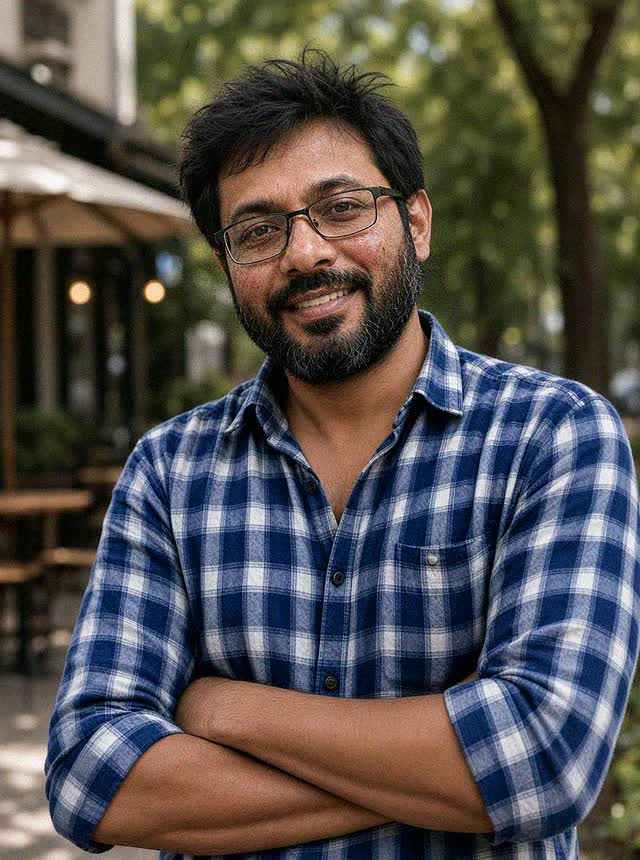
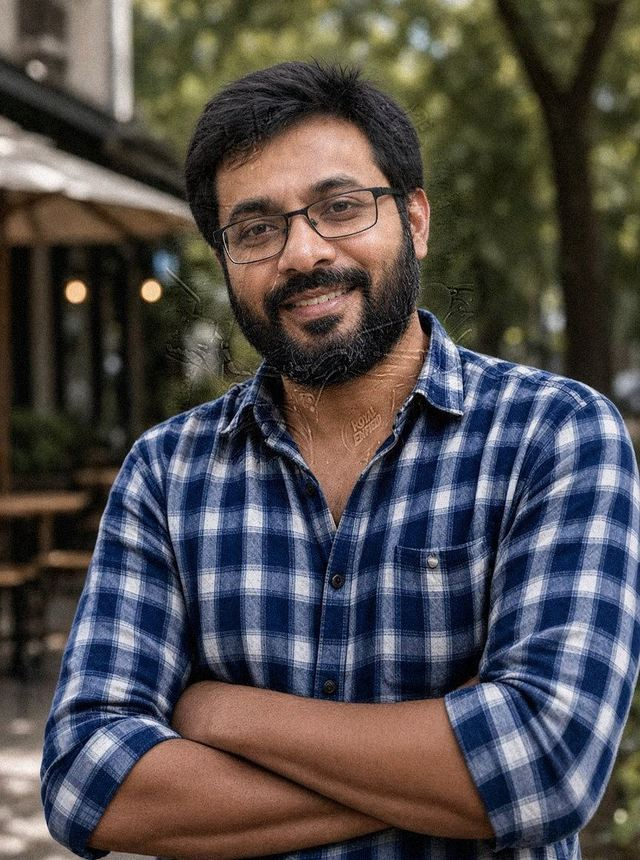
Redo Kabir Joshi DP from user phone skin/beard ref (desk123)
Keep invented outdoor instructor (glasses, blue check, blurred park/cafe).
Match medium-tan pores, sheen, dense soft-edge beard, and candid grain from
the attached phone photo without cloning identity. Cache-bust desk123 / ?v=7;
sync Flutter mentor asset. No APK.

diff --git a/js/app.js b/js/app.js
@@ -812,7 +812,7 @@ const MENTORS = [
   { name: "Neha Kapoor", role: "Options specialist", tag: "Income strategies", img: "/img/instructors/neha-kapoor.jpg?v=7" },
   { name: "Vikram Singh", role: "Price action coach", tag: "Swing trading", img: "https://images.unsplash.com/photo-1506794778202-cad84cf45f1d?auto=format&fit=crop&w=640&h=860&q=80" },
   { name: "Ananya Rao", role: "Long-term investor", tag: "Portfolio", img: "https://images.unsplash.com/photo-1573496359142-b8d87734a5a2?auto=format&fit=crop&w=640&h=860&q=80" },
-  { name: "Kabir Joshi", role: "Index options", tag: "Bank Nifty", img: "/img/instructors/kabir-joshi.jpg?v=6" },
+  { name: "Kabir Joshi", role: "Index options", tag: "Bank Nifty", img: "/img/instructors/kabir-joshi.jpg?v=7" },
   { name: "Rohan Desai", role: "Fund researcher", tag: "Mutual funds", img: "https://images.unsplash.com/photo-1519085360753-af0119f7cbe7?auto=format&fit=crop&w=640&h=860&q=80" },
   { name: "Priya Nair", role: "Asset allocation", tag: "SIP lab", img: "https://images.unsplash.com/photo-1580489944761-15a19d654956?auto=format&fit=crop&w=640&h=860&q=80" },
   { name: "Meera Iyer", role: "Options coach", tag: "Defined risk", img: "https://images.unsplash.com/photo-1438761681033-6461ffad8d80?auto=format&fit=crop&w=640&h=860&q=80" }
@@ -4909,6 +4909,7 @@ function traderIcon(kind) {
 /* cache-bust desk120: edge purge after CF poison on #75 (app.js?v=desk119 held pre-merge desk118; Kabir JPEG ?v=4 OK) /img/instructors/kabir-joshi.jpg?v=4 */
 /* cache-bust desk121: Kabir Joshi DP outdoor park path phone-candid blur /img/instructors/kabir-joshi.jpg?v=5 */
 /* cache-bust desk122: Kabir Joshi DP outdoor + Isha phone-face pores/flyaways grain /img/instructors/kabir-joshi.jpg?v=6 */
+/* cache-bust desk123: Kabir Joshi DP user phone-ref skin/beard grain outdoor /img/instructors/kabir-joshi.jpg?v=7 */
 function traderCardHTML(m, i, opts = {}) {
   const title = String(m.role || m.tag || "Mentor").trim();
   const cloneAttrs = opts.clone ? ' tabindex="-1" aria-hidden="true"' : "";

diff --git a/account.html b/account.html
@@ -17,7 +17,7 @@
   <div id="site-header"></div>
   <main id="accountRoot" class="ld-page"></main>
   <div id="site-footer"></div>
-  <script src="/js/app.js?v=desk122" defer></script>
+  <script src="/js/app.js?v=desk123" defer></script>
   <script src="/js/lms.js?v=cert2" defer></script>
 </body>
 </html>

diff --git a/learning.html b/learning.html
@@ -17,7 +17,7 @@
   <div id="site-header"></div>
   <main id="myLearning" class="ld-page"></main>
   <div id="site-footer"></div>
-  <script src="/js/app.js?v=desk122" defer></script>
+  <script src="/js/app.js?v=desk123" defer></script>
   <script src="/js/lms.js?v=cert2" defer></script>
 </body>
 </html>

diff --git a/course.html b/course.html
@@ -22,7 +22,7 @@
     </div>
   </main>
   <div id="site-footer"></div>
-  <script src="/js/app.js?v=desk122" defer></script>
+  <script src="/js/app.js?v=desk123" defer></script>
   <script src="/js/lms.js?v=cert2" defer></script>
   <script src="/js/drm.js?v=desk29" defer></script>
 </body>

diff --git a/contact.html b/contact.html
@@ -48,7 +48,7 @@
   </main>
   <div id="site-footer"></div>
   <script src="/js/help-faqs.js?v=faq1" defer></script>
-  <script src="/js/app.js?v=desk122" defer></script>
+  <script src="/js/app.js?v=desk123" defer></script>
   <script src="/js/lms.js" defer></script>
 </body>
 </html>

diff --git a/certificate.html b/certificate.html
@@ -19,7 +19,7 @@
     <div id="certRoot"></div>
   </main>
   <div id="site-footer"></div>
-  <script src="/js/app.js?v=desk122" defer></script>
+  <script src="/js/app.js?v=desk123" defer></script>
   <script src="/js/lms.js?v=cert2" defer></script>
 </body>
 </html>

diff --git a/control.html b/control.html
@@ -253,7 +253,7 @@
         loading = true;
         busy(true);
         var files = [
-          "/js/app.js?v=desk122",
+          "/js/app.js?v=desk123",
           "/js/lms.js",
           "/js/admin-core.js?v=desk8",
           "/js/admin.js?v=drm5",

diff --git a/index.html b/index.html
@@ -415,7 +415,7 @@
     </section>
   </main>
   <div id="site-footer"></div>
-  <script src="/js/app.js?v=desk122" defer></script>
+  <script src="/js/app.js?v=desk123" defer></script>
   <script src="/js/lms.js?v=cert2" defer></script>
 </body>
 </html>

diff --git a/live-room.html b/live-room.html
@@ -22,7 +22,7 @@
 </head>
 <body class="live-room-page">
   <div id="liveRoom"></div>
-  <script src="/js/app.js?v=desk122" defer></script>
+  <script src="/js/app.js?v=desk123" defer></script>
   <script src="/js/lms.js" defer></script>
 </body>
 </html>

diff --git a/nifty-options.html b/nifty-options.html
@@ -44,7 +44,7 @@
     </section>
   </main>
   <div id="site-footer"></div>
-  <script src="/js/app.js?v=desk122" defer></script>
+  <script src="/js/app.js?v=desk123" defer></script>
   <script src="/js/lms.js?v=cert2" defer></script>
 </body>
 </html>

diff --git a/option-trading-course.html b/option-trading-course.html
@@ -44,7 +44,7 @@
     </section>
   </main>
   <div id="site-footer"></div>
-  <script src="/js/app.js?v=desk122" defer></script>
+  <script src="/js/app.js?v=desk123" defer></script>
   <script src="/js/lms.js?v=cert2" defer></script>
 </body>
 </html>

diff --git a/share-market-course-in-hindi.html b/share-market-course-in-hindi.html
@@ -42,7 +42,7 @@
     </section>
   </main>
   <div id="site-footer"></div>
-  <script src="/js/app.js?v=desk122" defer></script>
+  <script src="/js/app.js?v=desk123" defer></script>
   <script src="/js/lms.js?v=cert2" defer></script>
 </body>
 </html>
